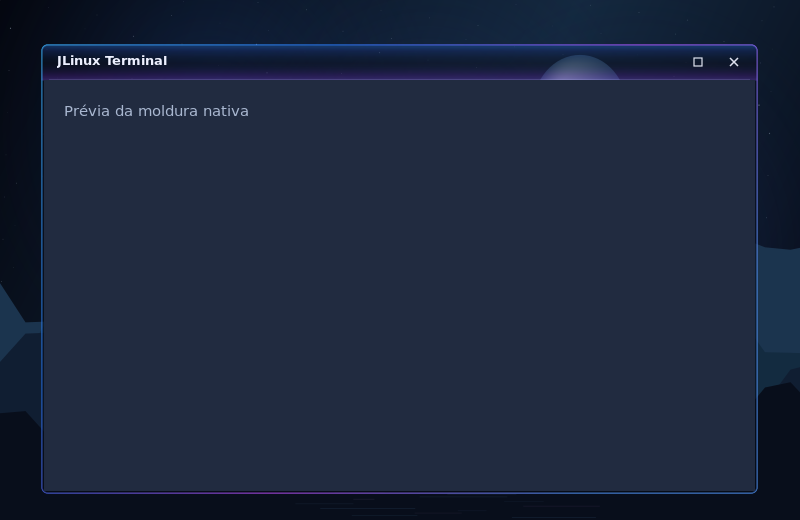
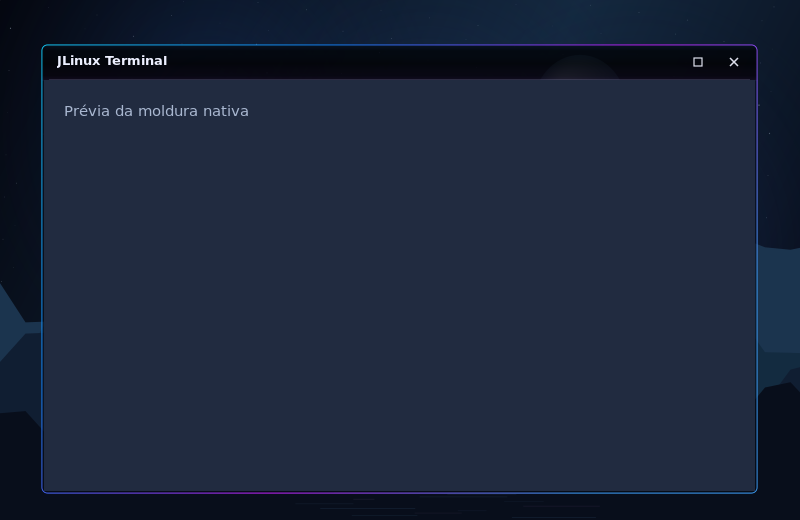
feat: darken window headers and sharpen vivid borders

Changed region(s): [[0.0312, 0.0615, 0.9688, 0.1538]]

diff --git a/src/effects/glass.c b/src/effects/glass.c
@@ -128,27 +128,33 @@ bool jlinux_glass_settings(struct jlinux_glass *effects) {
     return true;
 }
 
+void jlinux_glass_window_tint(cairo_t *cr, struct ui_rect rect, double radius) {
+    cairo_save(cr); rounded(cr, rect, radius);
+    cairo_set_source_rgba(cr, .006, .009, .016, .88); cairo_fill(cr);
+    cairo_restore(cr);
+}
+
 void jlinux_glass_window_reflections(cairo_t *cr, struct ui_rect rect, double radius, double header) {
     cairo_save(cr); rounded(cr, rect, radius); cairo_clip(cr);
     cairo_pattern_t *sheen = cairo_pattern_create_linear(0, rect.y, 0, rect.y + header);
-    cairo_pattern_add_color_stop_rgba(sheen, 0, .20, .55, 1, .36);
-    cairo_pattern_add_color_stop_rgba(sheen, .18, .12, .32, .78, .20);
+    cairo_pattern_add_color_stop_rgba(sheen, 0, .20, .55, 1, .12);
+    cairo_pattern_add_color_stop_rgba(sheen, .18, .12, .32, .78, .035);
     cairo_pattern_add_color_stop_rgba(sheen, .52, .02, .04, .09, .08);
-    cairo_pattern_add_color_stop_rgba(sheen, .86, .45, .16, .78, .22);
-    cairo_pattern_add_color_stop_rgba(sheen, 1, .58, .32, 1, .30);
+    cairo_pattern_add_color_stop_rgba(sheen, .86, .45, .16, .78, .045);
+    cairo_pattern_add_color_stop_rgba(sheen, 1, .58, .32, 1, .10);
     cairo_save(cr); cairo_rectangle(cr, rect.x, rect.y, rect.width, header); cairo_clip(cr);
     cairo_set_source(cr, sheen); cairo_paint(cr); cairo_restore(cr); cairo_pattern_destroy(sheen);
     /* A continuous chromatic rim avoids isolated white light sources. */
     for (int pass = 0; pass < 2; pass++) {
         cairo_pattern_t *edge = cairo_pattern_create_linear(rect.x, rect.y,
             rect.x + rect.width * .75, rect.y + rect.height);
-        double alpha = pass ? .98 : .40;
-        cairo_pattern_add_color_stop_rgba(edge, 0, .24, .72, 1, alpha);
-        cairo_pattern_add_color_stop_rgba(edge, .32, .16, .48, 1, alpha * .90);
-        cairo_pattern_add_color_stop_rgba(edge, .66, .76, .30, 1, alpha * .96);
-        cairo_pattern_add_color_stop_rgba(edge, 1, .32, .60, 1, alpha);
+        double alpha = pass ? 1 : .18;
+        cairo_pattern_add_color_stop_rgba(edge, 0, .08, .82, 1, alpha);
+        cairo_pattern_add_color_stop_rgba(edge, .32, .08, .52, 1, alpha);
+        cairo_pattern_add_color_stop_rgba(edge, .66, .78, .12, 1, alpha);
+        cairo_pattern_add_color_stop_rgba(edge, 1, .24, .64, 1, alpha);
         rounded(cr, rect, radius); cairo_set_source(cr, edge);
-        cairo_set_line_width(cr, pass ? .85 : 2.8); cairo_stroke(cr);
+        cairo_set_line_width(cr, pass ? 1.6 : 2.2); cairo_stroke(cr);
         cairo_pattern_destroy(edge);
     }
     cairo_restore(cr);

diff --git a/tests/window-frame.c b/tests/window-frame.c
@@ -29,6 +29,8 @@ int main(int argc, char **argv) {
     uint32_t left = *(uint32_t *)((unsigned char *)pixels + stride + 80 * 4);
     uint32_t middle = *(uint32_t *)((unsigned char *)pixels + stride + 360 * 4);
     uint32_t right = *(uint32_t *)((unsigned char *)pixels + stride + 640 * 4);
+    uint32_t edge = *(uint32_t *)((unsigned char *)pixels + 2 * stride + 80 * 4);
+    CHECK((edge & 255) > (left & 255));
     /* Continuous light: no former bottom hotspot; hue still changes along the rim. */
     for (int x = 81; x < 640; x++) {
         uint32_t previous = *(uint32_t *)((unsigned char *)pixels + stride + (x - 1) * 4);
@@ -45,6 +47,9 @@ int main(int argc, char **argv) {
     CHECK(wlr_buffer_begin_data_ptr_access(frame.parts[0]->buffer, WLR_BUFFER_DATA_PTR_ACCESS_READ,
         &pixels, &format, &stride));
     uint32_t plain = *(uint32_t *)((unsigned char *)pixels + stride + 195 * 4);
+    uint32_t header_center = *(uint32_t *)((unsigned char *)pixels + 18 * stride + 360 * 4);
+    CHECK((header_center >> 24) >= 220 && (header_center >> 24) < 255);
+    CHECK(((header_center >> 16) & 255) <= 8 && ((header_center >> 8) & 255) <= 8 && (header_center & 255) <= 8);
     wlr_buffer_end_data_ptr_access(frame.parts[0]->buffer);
     CHECK((lit >> 24) > (plain >> 24));
     CHECK(wlr_buffer_begin_data_ptr_access(frame.parts[3]->buffer, WLR_BUFFER_DATA_PTR_ACCESS_READ,
@@ -58,7 +63,13 @@ int main(int argc, char **argv) {
     uint32_t unshaded = *(uint32_t *)((unsigned char *)pixels + stride + 280 * 4);
     wlr_buffer_end_data_ptr_access(frame.parts[3]->buffer);
     CHECK((shaded >> 24) > (unshaded >> 24));
-    effects.shadow = true;
+    effects.tint = false;
+    CHECK(jlinux_window_frame_update(&frame, 711, 411, "JLinux Terminal", effects, false));
+    CHECK(wlr_buffer_begin_data_ptr_access(frame.parts[0]->buffer, WLR_BUFFER_DATA_PTR_ACCESS_READ,
+        &pixels, &format, &stride));
+    CHECK(*(uint32_t *)((unsigned char *)pixels + 18 * stride + 360 * 4) == 0);
+    wlr_buffer_end_data_ptr_access(frame.parts[0]->buffer);
+    effects.tint = true; effects.shadow = true;
 
     effects.reflection = true;
     CHECK(jlinux_window_frame_update(&frame, 711, 411, "JLinux Terminal", effects, false));

diff --git a/src/renderer/window-frame.c b/src/renderer/window-frame.c
@@ -50,8 +50,12 @@ bool jlinux_window_frame_update(struct jlinux_window_frame *frame, int width, in
         int material_height = i == 0 ? header + JLINUX_FRAME_RADIUS : full_height;
         struct jlinux_glass material = effects;
         material.reflection = false; /* Window rims have their own continuous finish. */
-        jlinux_glass_paint(cr, (struct ui_rect){.5, .5, full_width - 1, material_height - 1},
-            JLINUX_FRAME_RADIUS, NULL, 0, 0, material);
+        struct ui_rect material_rect = {.5, .5, full_width - 1, material_height - 1};
+        if (i == 0 && effects.tint) {
+            jlinux_glass_window_tint(cr, material_rect, JLINUX_FRAME_RADIUS);
+        } else {
+            jlinux_glass_paint(cr, material_rect, JLINUX_FRAME_RADIUS, NULL, 0, 0, material);
+        }
         if (effects.shadow) {
             jlinux_glass_window_shading(cr,
                 (struct ui_rect){.5, .5, full_width - 1, full_height - 1}, JLINUX_FRAME_RADIUS);

diff --git a/src/effects/glass.h b/src/effects/glass.h
@@ -4,6 +4,7 @@
 struct jlinux_glass { bool blur, tint, reflection, shadow; };
 void jlinux_glass_panel_paint(cairo_t *cr, double width, double body_height, double fade_height,
     cairo_surface_t *backdrop, struct jlinux_glass effects);
+void jlinux_glass_window_tint(cairo_t *cr, struct ui_rect rect, double radius);
 void jlinux_glass_window_shading(cairo_t *cr, struct ui_rect rect, double radius);
 void jlinux_glass_window_reflections(cairo_t *cr, struct ui_rect rect, double radius, double header);
 bool jlinux_glass_settings(struct jlinux_glass *effects);

diff --git a/TASKS.md b/TASKS.md
@@ -321,3 +321,9 @@ Dezenove testes release passaram nesta base. ASan/UBSan e empacotamento registra
 - **PANEL-FLUSH · implementado na branch:** painel retangular, largura total, margem zero, sem borda inferior; 36 px de controles mais 16 px de degradê até transparência. Material Glass/cache do wallpaper e opções independentes preservados. A faixa de fade fica fora da região de entrada. Reserva de área útil de 52 px e centralização do dock coerentes entre execução e prévia.
 - Validação: 22 testes release e `git diff --check` passaram. Novo teste de pixels cobre cantos retos e opacidade estritamente decrescente em toda a largura nas combinações TINT/REFLECTION; smoke do shell confirma área útil atualizada. Prévias nativas inspecionadas a 1672×941; a nova forma substitui a cápsula das referências por pedido explícito do usuário. Não há afirmação de reprodução integral das fotos.
 - Os 22 testes também passaram com ASan/UBSan. CI remoto e avaliação física pendentes no registro. Sem benchmark, teste de VT/DRM, instalação ou reinício da sessão ativa. Base temporária `feature/window-color-accent`, PR #45, preservando o realce das janelas da entrega anterior.
+
+## Cabeçalho preto e bordas nítidas — feature/black-window-headers
+
+- **VISUAL-BLACK-HEADER · implementado na branch:** base preto-azulada a 88% no cabeçalho, controlada por TINT e desenhada no lugar do material anterior. Reflexos de corpo reduzidos; contorno ciano/azul/violeta mais saturado, traço de 1,6 px e halo interno de 2,2 px a 18%. Borda física de 3 px, foco e controles preservados; nenhum novo timer, buffer ou passe.
+- Validação local: 22 testes release passaram (21 cenários da suíte final mais repetição direcionada do teste de moldura após corrigir uma asserção de amostragem de alfa). Teste de pixels verifica cabeçalho escuro/translúcido, independência de TINT e maior intensidade de cor na linha do que no halo; `git diff --check` passou. Prévias de moldura/Arquivos inspecionadas antes/depois e prévia temporária de moldura a 1670×941 comparada à referência principal, sem afirmar fidelidade integral.
+- Base temporária `feature/flush-top-panel`, PR #47, preservando a barra reta com fade. Sem instalação ou reinício da sessão ativa, sem teste de VT/DRM, benchmark ou nova execução de sanitizers; ownership/ciclo de vida não alterados. CI remoto e avaliação física pendentes no registro.

diff --git a/docs/visual-style.md b/docs/visual-style.md
@@ -110,3 +110,11 @@ O pedido mais recente substitui a cápsula flutuante da barra: largura total da 
 A superfície e a reserva de área útil passam a 52 px. Só os 36 px de controles recebem entrada; a faixa de transição não captura cliques. Dock permanece com sua forma e material, centralizado na área abaixo dessa nova reserva. Menus de energia/volume e botões transitórios mantêm suas posições anteriores.
 
 BLUR, TINT e REFLECTION continuam independentes. O fundo de vidro ainda amostra somente o wallpaper em cache, não janelas. A máscara usa um grupo Cairo temporário restrito à barra quando há redesenho; não adiciona timer ou animação. Não há medição de desempenho nesta mudança.
+
+### Cabeçalho mais preto e borda mais definida
+
+O novo pedido escurece o fundo do cabeçalho: preto levemente azulado com opacidade de 88%, mantendo transparência e cantos existentes. A tonalização pertence a TINT e substitui a pintura anterior nesse trecho, sem passe adicional. REFLECTION deixa reflexos mais discretos no corpo para destacar o contorno ciano/azul/violeta saturado.
+
+O traço de contorno passa de 0,85 para 1,6 px, com halo interno reduzido de 2,8 para 2,2 px e opacidade de 40% para 18%. A borda física continua em 3 px. A intenção é uma linha colorida mais nítida, com menos luz difusa; não aumenta a moldura nem adiciona blur. O material de reflexos também é usado pela barra de Arquivos e pelo login. A barra superior reta com fade e o dock continuam com seu material anterior.
+
+Prévias de moldura/Arquivos inspecionadas antes/depois; uma prévia temporária a 1670×941 foi comparada à primeira referência, sem afirmar reprodução integral das fotos. Não é captura da sessão ativa. O conteúdo de aplicativos externos permanece sob controle deles.

diff --git a/docs/visual-pipeline.md b/docs/visual-pipeline.md
@@ -69,3 +69,7 @@ O pedido de borda neon discreta substitui os quatro pontos de brilho da moldura:
 ### Barra superior retangular com base em degradê
 
 `jlinux_glass_panel_paint` reutiliza o material existente com os limites fora da área recortada, evitando contorno visível. Um grupo Cairo de 52 px de altura recebe máscara de opacidade: 36 px para conteúdo e 16 px de fade. É composição no redesenho do shell, não animação nem passe de blur novo. O cache do wallpaper continua compartilhado com o dock. A amostragem bilinear agora prolonga os pixels da borda do cache (`CAIRO_EXTEND_PAD`) para não criar transparência acidental no topo da saída.
+
+### Tonalização do cabeçalho das janelas
+
+`jlinux_glass_window_tint` preenche o mesmo recorte arredondado do cabeçalho com preto azulado translúcido. É selecionado no lugar da tonalização genérica quando TINT está ativo; laterais/inferior mantêm o material anterior. Desativar TINT remove essa base mesmo com REFLECTION/SHADOW independentes. Recursos, quatro faixas da moldura e redesenho por eventos permanecem iguais.

diff --git a/docs/design/README.md b/docs/design/README.md
@@ -77,3 +77,7 @@ As prévias de moldura e Arquivos foram atualizadas com azul/ciano e violeta mai
 ### Barra encaixada — pedido posterior às referências
 
 A prévia `native-glass-preview.png` agora mostra a barra reta, em toda a largura e sem margem superior. A base termina em transparência gradual, sem contorno inferior. Essa geometria atende ao pedido mais recente do usuário, substituindo a cápsula das fotos; o material de vidro permanece. A imagem é uma prévia nativa a 1672×941, não captura da sessão instalada.
+
+### Cabeçalho preto e contorno nítido
+
+As prévias nativas de moldura e Arquivos foram atualizadas novamente: cabeçalho da moldura quase preto, reflexos internos discretos e contorno ciano/azul/violeta mais definido. São componentes renderizados para inspeção, não capturas do desktop instalado. A geometria da barra superior reta com degradê continua preservada.
